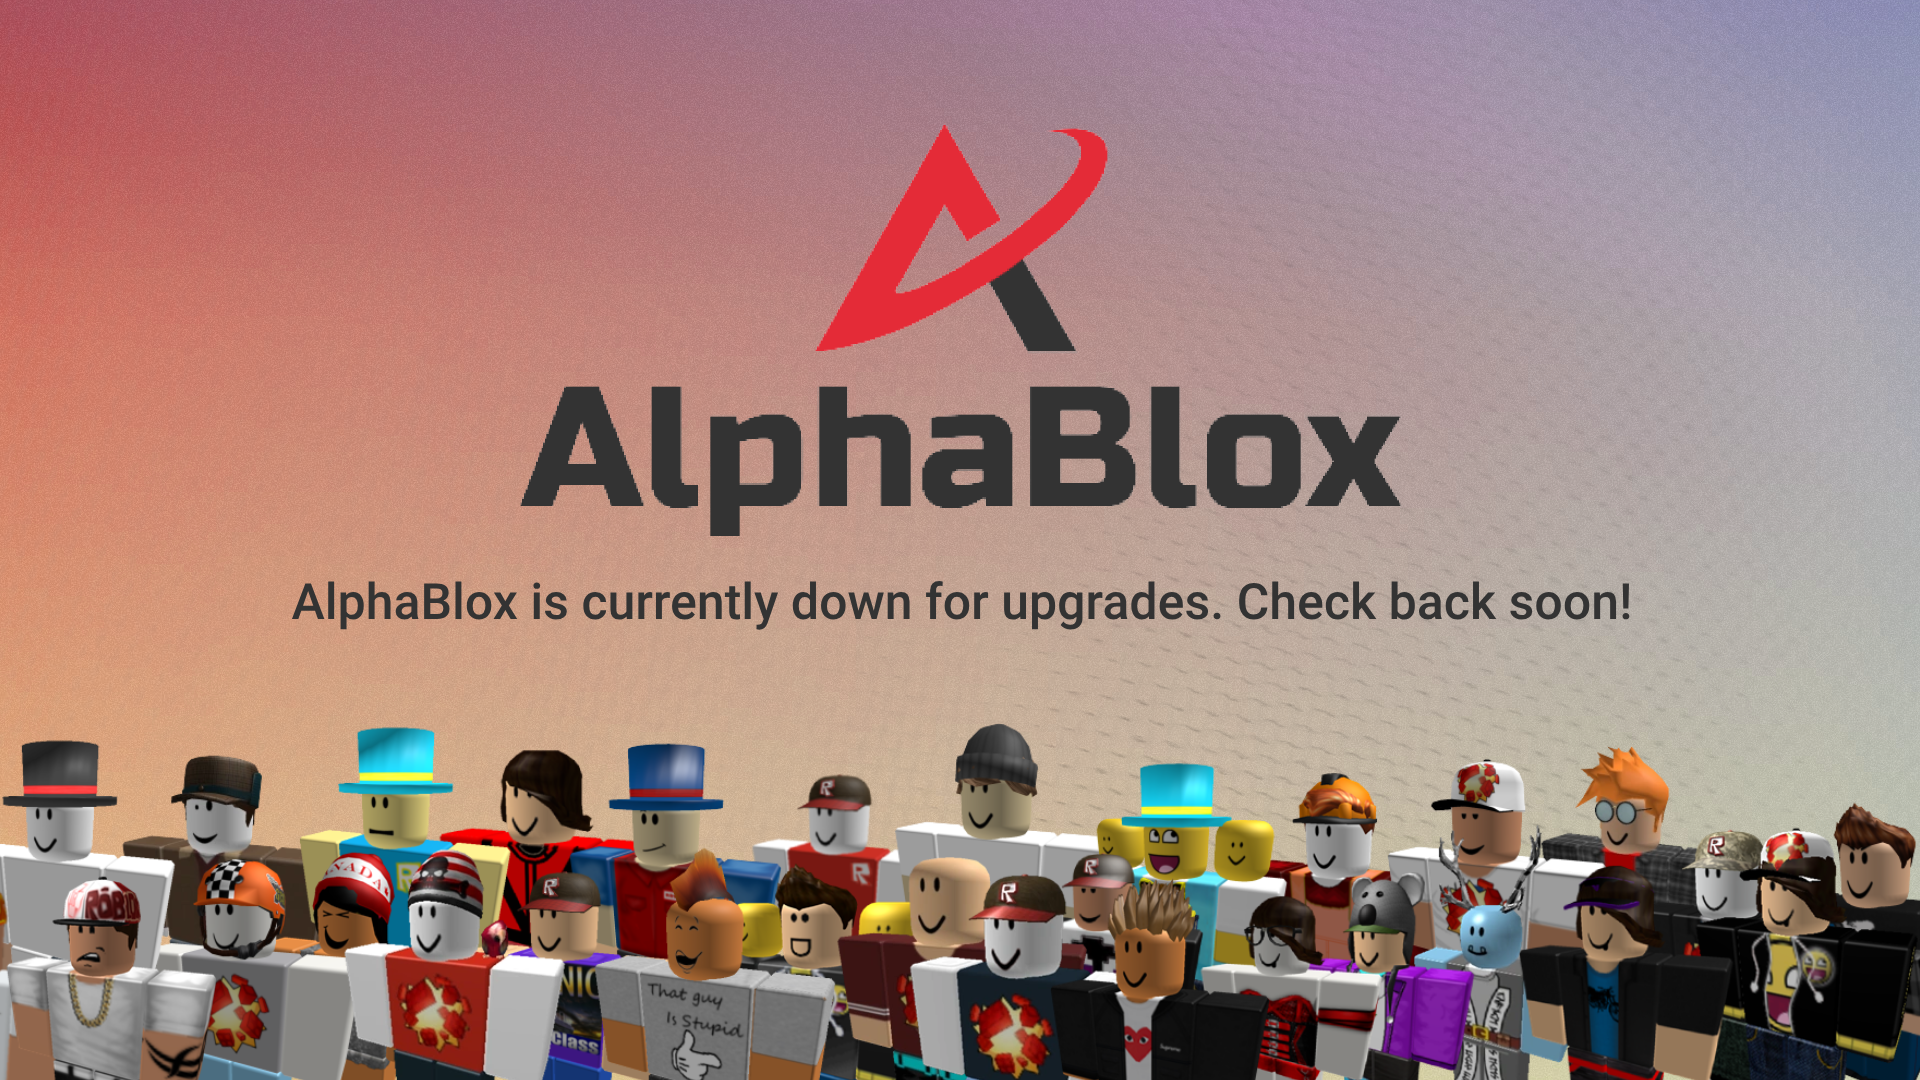
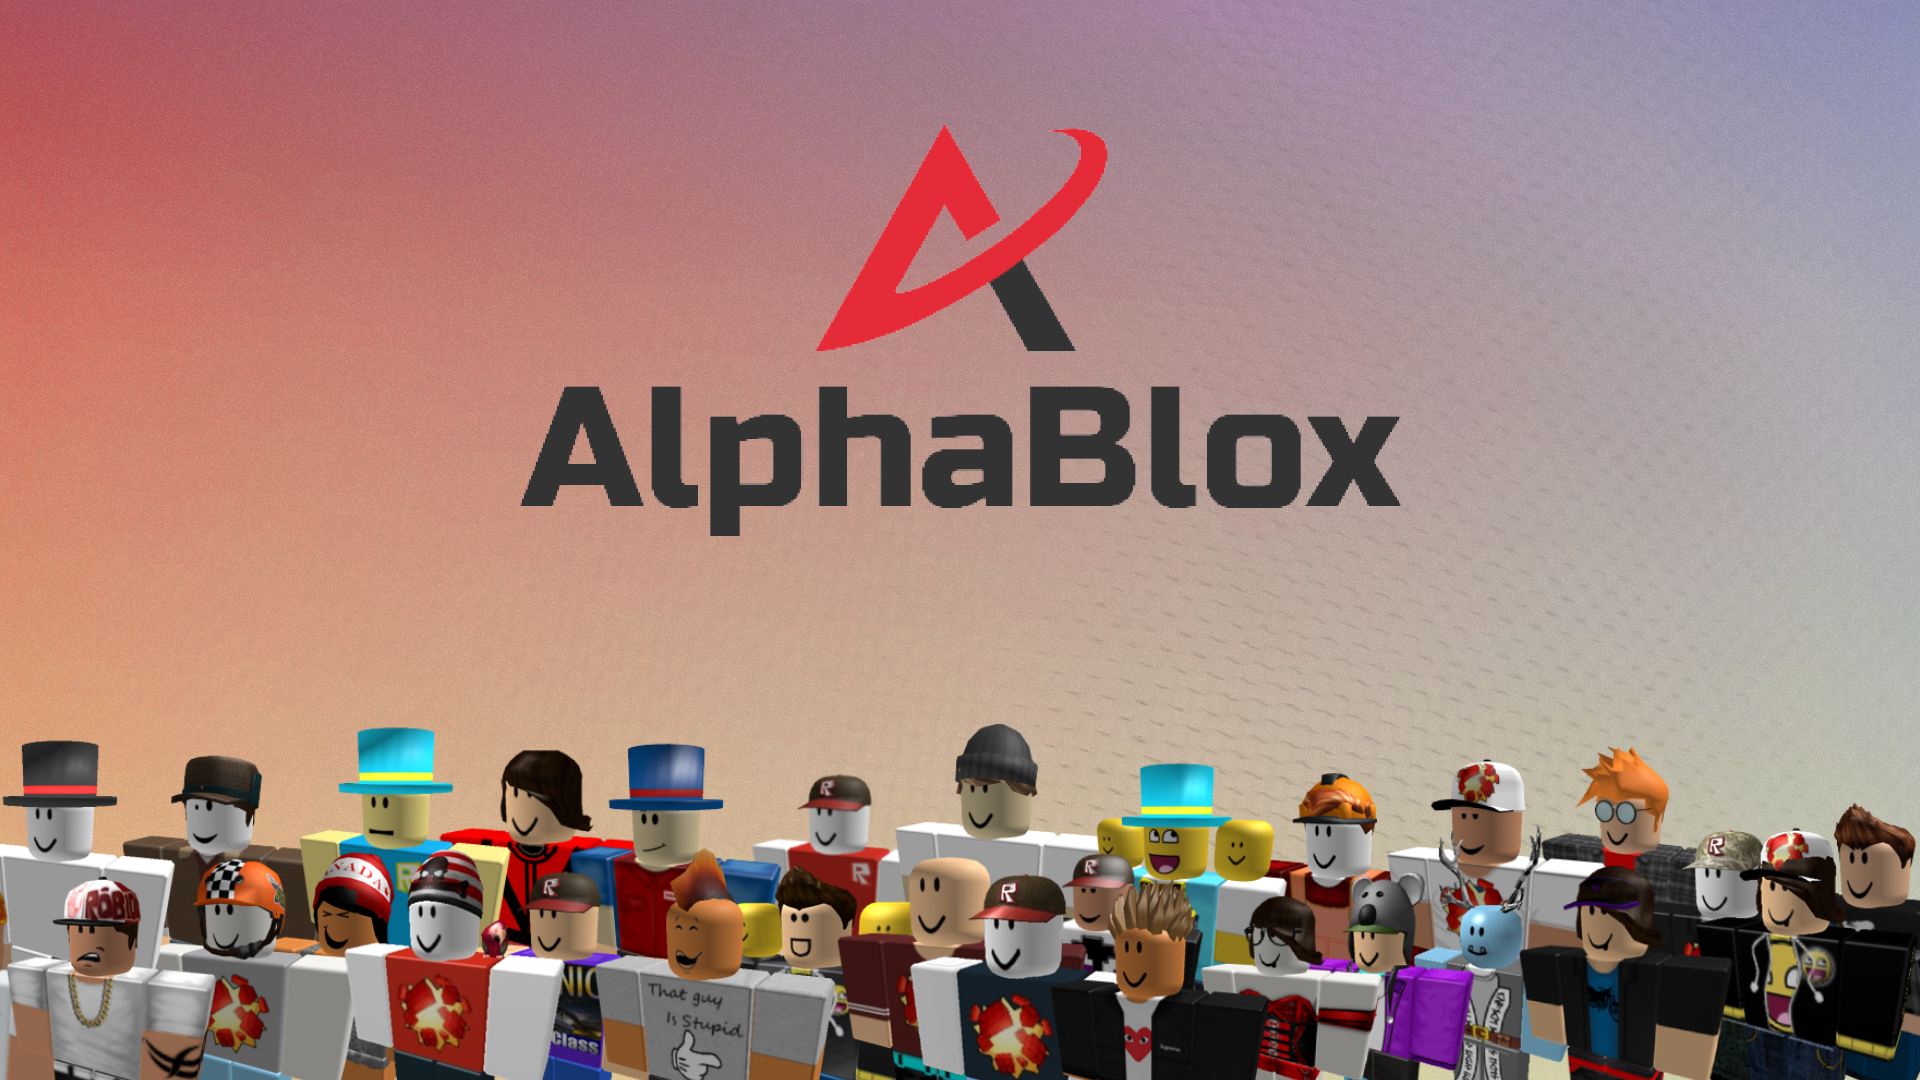
maintenance page update

Changed region(s): [[0.1562, 0.5194, 0.8438, 0.5806]]

diff --git a/client/maintenance.html b/client/maintenance.html
@@ -3,35 +3,56 @@
 <head>
     <meta charset="UTF-8">
     <meta name="viewport" content="width=device-width, initial-scale=1.0">
-    <title>Site Maintenance - My Node.js App</title>
+    <title>Site Maintenance - AlphaBlox</title>
     <link rel="stylesheet" href="https://cdnjs.cloudflare.com/ajax/libs/bootswatch/3.3.7/simplex/bootstrap.min.css">
     <link rel="icon" href="./images/AlphaBlox.ico" type="image/x-icon">
-
-   <style>
-        body {
-            background-color: #f8f9fa;
+    <style>
+        html, body {
+            height: 100%;
         }
-        .maintenance-container {
-            text-align: center;
-            padding-top: 100px;
+        body {
+            background-image: url('./images/alphablox-maintenance.png');
+            background-size: cover;
+            background-position: center;
+            background-repeat: no-repeat;
+            background-attachment: fixed;
+        }
+        .maintenance-overlay {
+            background-color: rgba(0, 0, 0, 0.6);
+            min-height: 100vh;
+            display: flex;
+            align-items: center;
+        }
+        .maintenance-content {
+            background-color: rgba(255, 255, 255, 0.9);
+            border-radius: 15px;
+            padding: 30px;
         }
         .maintenance-icon {
-            font-size: 100px;
+            font-size: 64px;
             color: #007bff;
         }
-        .maintenance-message {
-            font-size: 24px;
-            margin-bottom: 30px;
+        @media (max-width: 768px) {
+            .maintenance-content {
+                margin: 15px;
+            }
         }
     </style>
 </head>
 <body>
-    <div class="container">
-        <div class="maintenance-container">
-            <div class="maintenance-icon">🛠</div>
-            <h1>Site Maintenance</h1>
-            <div class="maintenance-message">We're currently performing some maintenance. We'll be back soon!</div>
-            <p>We apologize for any inconvenience. Please check back later.</p>
+    <div class="maintenance-overlay">
+        <div class="container">
+            <div class="row">
+                <div class="col-md-8 col-md-offset-2">
+                    <div class="maintenance-content text-center">
+                        <div class="maintenance-icon">🛠</div>
+                        <h1 class="mt-4">Site Maintenance</h1>
+                        <p class="lead">We're currently performing some maintenance. We'll be back soon!</p>
+                        <p>We apologize for any inconvenience. Please check back later.</p>
+                        <a href="/" class="btn btn-primary mt-3">Refresh</a>
+                    </div>
+                </div>
+            </div>
         </div>
     </div>
 </body>
